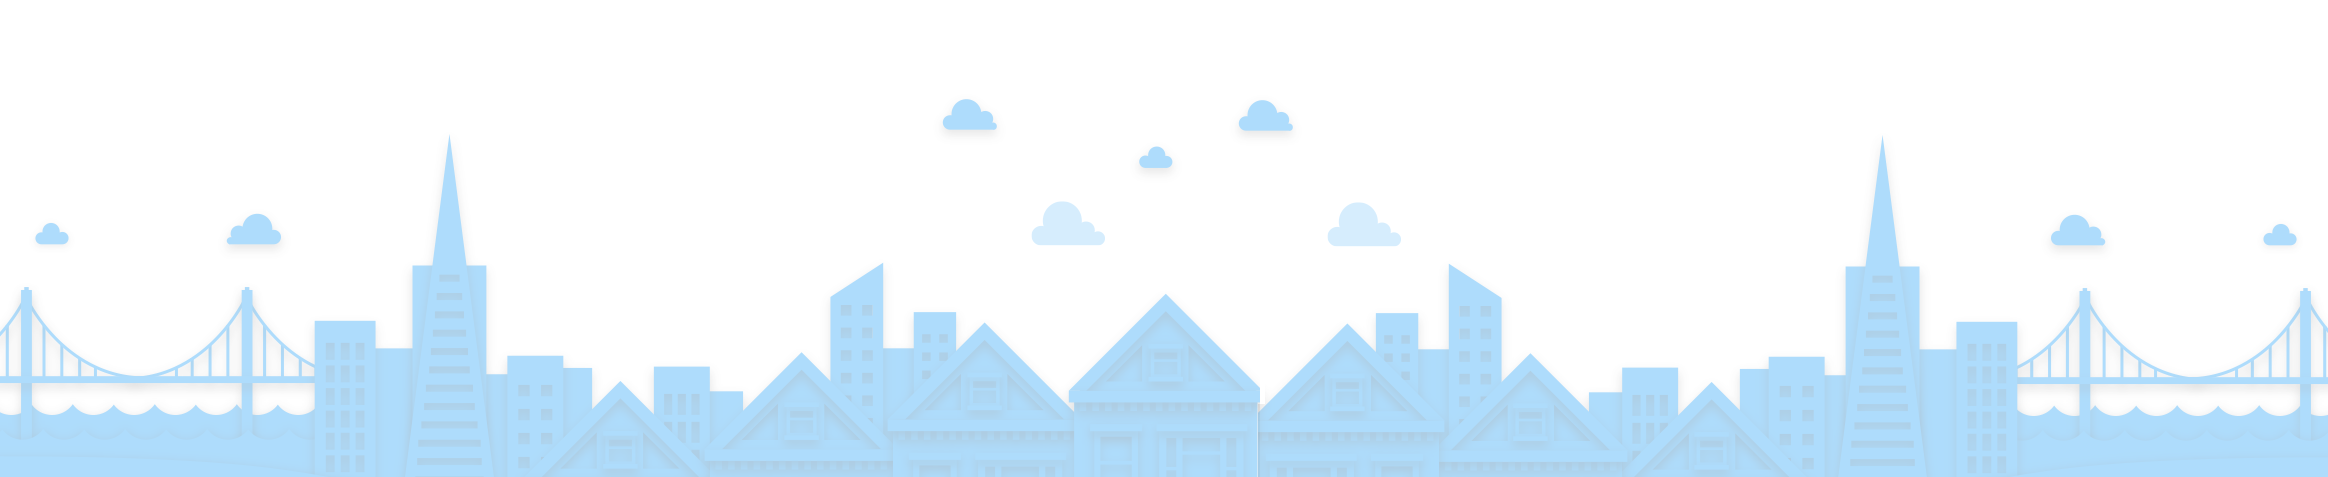
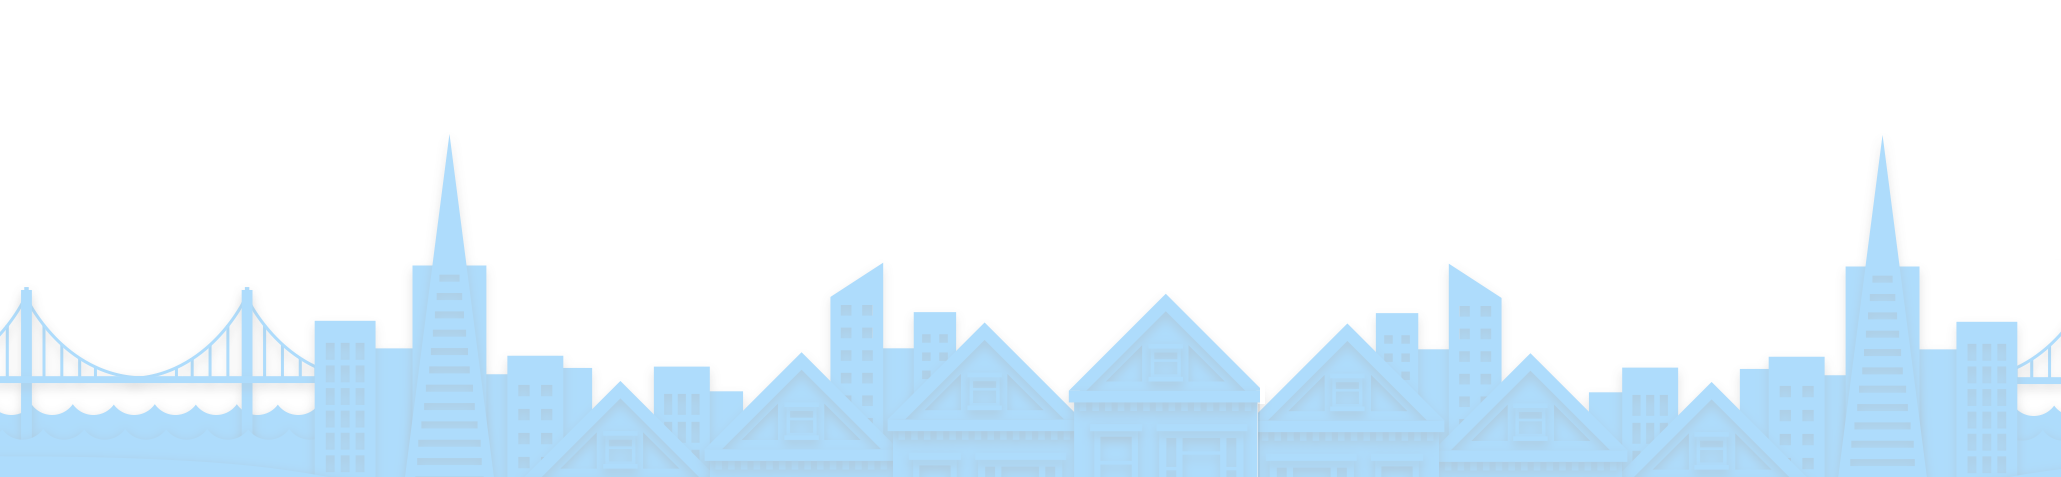
Improved parallax

diff --git a/app/index.html b/app/index.html
@@ -9,6 +9,7 @@
     <!-- build:css(.) styles/vendor.css -->
     <!-- bower:css -->
     <link rel="stylesheet" href="bower_components/bootstrap/dist/css/bootstrap.css" />
+    <link rel="stylesheet" href="bower_components/font-awesome/css/font-awesome.css" />
     <!-- endbower -->
     <!-- endbuild -->
     <!-- build:css(.tmp) styles/main.css -->
@@ -21,32 +22,13 @@
     <![endif]-->
 
     <!-- Add your site or application content here -->
-    <!-- div class="header">
-      <div class="navbar navbar-default" role="navigation">
-        <div class="container">
-          <div class="navbar-header">
-
-            <button type="button" class="navbar-toggle collapsed" data-toggle="collapse" data-target="#js-navbar-collapse">
-              <span class="sr-only">Toggle navigation</span>
-              <span class="icon-bar"></span>
-              <span class="icon-bar"></span>
-              <span class="icon-bar"></span>
-            </button>
-
-            <a class="navbar-brand" href="#/">angularEcsPong</a>
-          </div>
-
-          <div class="collapse navbar-collapse" id="js-navbar-collapse">
-
-            <ul class="nav navbar-nav">
-              <li class="active"><a href="#/">Home</a></li>
-              <li><a ng-href="#/about">About</a></li>
-              <li><a ng-href="#/">Contact</a></li>
-            </ul>
-          </div>
+    <div class="header">
+      <div class="navbar navbar-fixed-top" role="navigation">
+        <div class="container text-right">
+          <a class="navbar-brand pull-right" href="https://github.com/Hypercubed/angular-ecs-flap"><i class="fa fa-github-square"></i></a>
         </div>
       </div>
-    </div -->
+    </div>
 
     <div class="container-fluid" id="container">
       <div ng-view=""></div>

diff --git a/app/styles/main.css b/app/styles/main.css
@@ -20,8 +20,13 @@ body {
 /* Custom page header */
 .header {
   border-bottom: 1px solid #e5e5e5;
-  margin-bottom: 10px;
+  margin-bottom: 0px;
 }
+
+.navbar-brand {
+  opacity: 0.5;
+}
+
 /* Make the masthead heading the same height as the navigation */
 .header h3 {
   margin-top: 0;
@@ -51,6 +56,7 @@ html, body {
   padding: 0;
   color: #000;
   position: relative;
+  overflow: hidden;
 }
 
 #canvas {
@@ -80,21 +86,36 @@ html, body {
 }
 
 .canvas-bg {
-  width: 2328px;
+  width: 2061px;
   height: 768px;
   top: 0px;
   left: 0px;
   background-image: url('../images/sf-paper.png');
   background-repeat: repeat-x;
   background-position: 0 288px;
-  background-size: 2328px 477px;
+  background-size: 2061px 477px;
+  position: absolute;
+}
+
+.canvas-bg-clouds {
+  width: 2061px;
+  height: 768px;
+  top: 0px;
+  left: 0px;
+  background-image: url('../images/sf-paper-clouds.png');
+  background-repeat: repeat-x;
+  background-position: 0 144px;
+  background-size: 2061px 477px;
   position: absolute;
 }
 
 @media only screen and (max-width: 767px) {
   .canvas-bg {
-    /* background-image: url('../images/sf-paper-mobile.png');
-    background-size: 2328px 477px; */
+    background-image: url('../images/sf-paper-mobile.png');
+  }
+
+  .canvas-bg-clouds {
+    background-image: url('../images/sf-paper-clouds-mobile.png');
   }
 }
 

diff --git a/app/views/main.html b/app/views/main.html
@@ -1,14 +1,15 @@
 <div id="canvas" class="noselect" ng-click="main.click($event)">
+  <div class="canvas-bg-clouds"></div>
   <div class="canvas-bg"></div>
   <h1 class="noselect">{{main.message()}}</h1>
   <h2 ng-bind-html="main.hiscore()" class="noselect"></h2>
   <p class="lead" class="noselect">
     <div id="bird" class="bird"></div>
-    <h3 class="noselect" ng-if="!main.game.$playing">Fly between the balloons to score</h3>
+    <h3 class="noselect" ng-if="!main.game.$playing">Fly between the octocats to score</h3>
   </p>
 
-  <button class="btn btn-lg btn-success" ng-click="main.click($event)" id="start" ng-if="!main.game.$playing">
-    Click, tap, or press [space] to start
+  <button class="btn btn-lg btn-success" id="start" ng-if="!main.game.$playing">
+    Click, tap, or press [space] to fly
   </button>
 
 </div>

diff --git a/app/scripts/controllers/main.js b/app/scripts/controllers/main.js
@@ -6,7 +6,7 @@ angular.module('angularEcsFlapApp')
     var main = this;
 
     main.game = ngEcs;
-    ngEcs.$fps = isMobile ? 45 : 60;
+    ngEcs.$fps = isMobile ? 60 : 60;
 
     main.message = function() {
       if (main.game.$playing) {
@@ -37,7 +37,15 @@ angular.module('angularEcsFlapApp')
         selector: '.canvas-bg'
       },
       velocity: {x:-100,y:0},
-      scroll: {x:0,y:0,repeatX:2328}
+      scroll: {x:0,y:0,repeatX:2061}
+    });
+
+    ngEcs.$e({
+      dom: {
+        selector: '.canvas-bg-clouds'
+      },
+      velocity: {x:-50,y:0},
+      scroll: {x:0,y:0,repeatX:2061}
     });
 
     $document.on('keydown', function(e) {

diff --git a/app/scripts/game/systems.js b/app/scripts/game/systems.js
@@ -200,7 +200,7 @@ angular
 
         while (this.$family.length < 5) {
 
-          var el = angular.element('<img class="pipe" src="images/yeoman.png"></img>');
+          var el = angular.element('<img class="pipe" src="images/cat.png"></img>');
           //angular.element(el).appendTo(screen.dom.$element);
           angular.element(screen.dom.$element).append(el);
 
